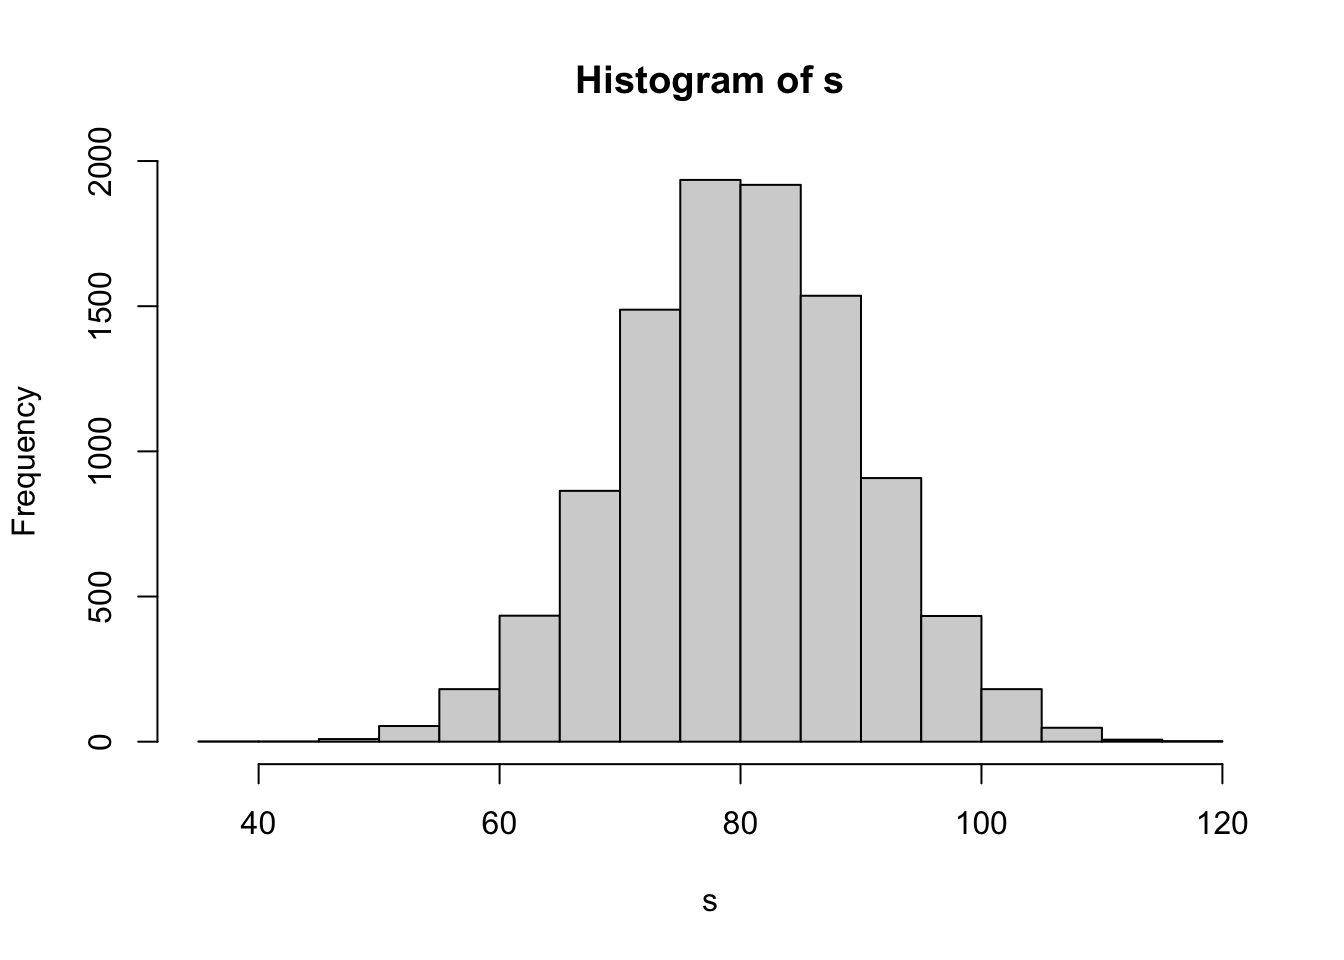
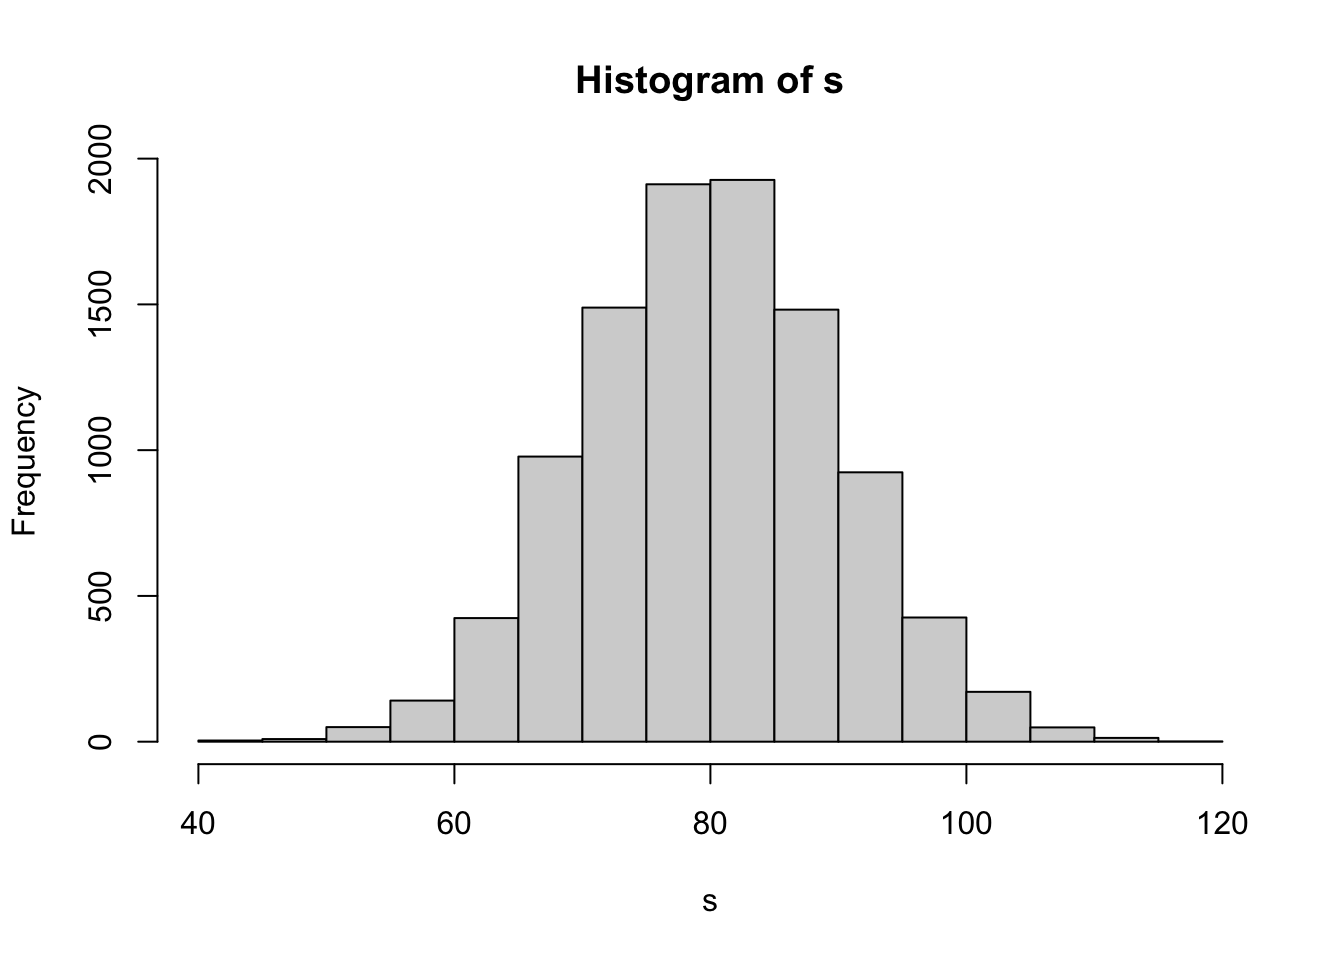
commit

diff --git a/docs/11-module.html b/docs/11-module.html
@@ -435,34 +435,34 @@ pre > code.sourceCode > span > a:first-child::before { text-decoration: underlin
 <span id="cb2-13"><a href="#cb2-13" aria-hidden="true" tabindex="-1"></a><span class="fu">head</span>(df)</span></code><button title="Copy to Clipboard" class="code-copy-button"><i class="bi"></i></button></pre></div>
 <div class="cell-output cell-output-stdout">
 <pre><code>##       name     house   code
-## 1      Ned     Stark 101602
-## 2    Sansa     Stark 168601
-## 3   Cersei Lannister 133778
-## 4   Tyrion Lannister 193890
-## 5      Jon     Stark 576128
-## 6 Daenerys Targaryen 377887</code></pre>
+## 1      Ned     Stark 222333
+## 2    Sansa     Stark 200278
+## 3   Cersei Lannister 528364
+## 4   Tyrion Lannister 727635
+## 5      Jon     Stark 364245
+## 6 Daenerys Targaryen 436165</code></pre>
 </div>
 <div class="sourceCode cell-code" id="cb4"><pre class="sourceCode r code-with-copy"><code class="sourceCode r"><span id="cb4-1"><a href="#cb4-1" aria-hidden="true" tabindex="-1"></a>df <span class="ot">&lt;-</span> <span class="fu">add_prefix</span>(my_data, <span class="at">prefix =</span> <span class="st">"House "</span>, <span class="at">variable =</span> <span class="st">"house"</span>)</span>
 <span id="cb4-2"><a href="#cb4-2" aria-hidden="true" tabindex="-1"></a><span class="fu">head</span>(df)</span></code><button title="Copy to Clipboard" class="code-copy-button"><i class="bi"></i></button></pre></div>
 <div class="cell-output cell-output-stdout">
 <pre><code>##       name           house   code
-## 1      Ned     House Stark 101602
-## 2    Sansa     House Stark 168601
-## 3   Cersei House Lannister 133778
-## 4   Tyrion House Lannister 193890
-## 5      Jon     House Stark 576128
-## 6 Daenerys House Targaryen 377887</code></pre>
+## 1      Ned     House Stark 222333
+## 2    Sansa     House Stark 200278
+## 3   Cersei House Lannister 528364
+## 4   Tyrion House Lannister 727635
+## 5      Jon     House Stark 364245
+## 6 Daenerys House Targaryen 436165</code></pre>
 </div>
 <div class="sourceCode cell-code" id="cb6"><pre class="sourceCode r code-with-copy"><code class="sourceCode r"><span id="cb6-1"><a href="#cb6-1" aria-hidden="true" tabindex="-1"></a>df <span class="ot">&lt;-</span> <span class="fu">add_prefix</span>(my_data, <span class="at">prefix =</span> <span class="st">"00001-"</span>, <span class="at">variable =</span> <span class="st">"code"</span>)</span>
 <span id="cb6-2"><a href="#cb6-2" aria-hidden="true" tabindex="-1"></a><span class="fu">head</span>(df)</span></code><button title="Copy to Clipboard" class="code-copy-button"><i class="bi"></i></button></pre></div>
 <div class="cell-output cell-output-stdout">
 <pre><code>##       name     house         code
-## 1      Ned     Stark 00001-101602
-## 2    Sansa     Stark 00001-168601
-## 3   Cersei Lannister 00001-133778
-## 4   Tyrion Lannister 00001-193890
-## 5      Jon     Stark 00001-576128
-## 6 Daenerys Targaryen 00001-377887</code></pre>
+## 1      Ned     Stark 00001-222333
+## 2    Sansa     Stark 00001-200278
+## 3   Cersei Lannister 00001-528364
+## 4   Tyrion Lannister 00001-727635
+## 5      Jon     Stark 00001-364245
+## 6 Daenerys Targaryen 00001-436165</code></pre>
 </div>
 </div>
 <blockquote class="blockquote">
@@ -472,23 +472,23 @@ pre > code.sourceCode > span > a:first-child::before { text-decoration: underlin
 <div class="sourceCode cell-code" id="cb8"><pre class="sourceCode r code-with-copy"><code class="sourceCode r"><span id="cb8-1"><a href="#cb8-1" aria-hidden="true" tabindex="-1"></a><span class="fu">head</span>(<span class="fu">add_prefix</span>(<span class="at">df =</span> my_data, <span class="at">variable =</span> <span class="st">"house"</span>))</span></code><button title="Copy to Clipboard" class="code-copy-button"><i class="bi"></i></button></pre></div>
 <div class="cell-output cell-output-stdout">
 <pre><code>##       name     house   code
-## 1      Ned     Stark 101602
-## 2    Sansa     Stark 168601
-## 3   Cersei Lannister 133778
-## 4   Tyrion Lannister 193890
-## 5      Jon     Stark 576128
-## 6 Daenerys Targaryen 377887</code></pre>
+## 1      Ned     Stark 222333
+## 2    Sansa     Stark 200278
+## 3   Cersei Lannister 528364
+## 4   Tyrion Lannister 727635
+## 5      Jon     Stark 364245
+## 6 Daenerys Targaryen 436165</code></pre>
 </div>
 <div class="sourceCode cell-code" id="cb10"><pre class="sourceCode r code-with-copy"><code class="sourceCode r"><span id="cb10-1"><a href="#cb10-1" aria-hidden="true" tabindex="-1"></a><span class="co"># versus...</span></span>
 <span id="cb10-2"><a href="#cb10-2" aria-hidden="true" tabindex="-1"></a><span class="fu">head</span>(<span class="fu">add_prefix</span>(<span class="at">variable =</span> <span class="st">"house"</span>, <span class="at">df =</span> my_data))</span></code><button title="Copy to Clipboard" class="code-copy-button"><i class="bi"></i></button></pre></div>
 <div class="cell-output cell-output-stdout">
 <pre><code>##       name     house   code
-## 1      Ned     Stark 101602
-## 2    Sansa     Stark 168601
-## 3   Cersei Lannister 133778
-## 4   Tyrion Lannister 193890
-## 5      Jon     Stark 576128
-## 6 Daenerys Targaryen 377887</code></pre>
+## 1      Ned     Stark 222333
+## 2    Sansa     Stark 200278
+## 3   Cersei Lannister 528364
+## 4   Tyrion Lannister 727635
+## 5      Jon     Stark 364245
+## 6 Daenerys Targaryen 436165</code></pre>
 </div>
 </div>
 <p>Note that in the example above, because the argument name <code>prefix</code> was excluded, the default value was used.</p>
@@ -497,34 +497,34 @@ pre > code.sourceCode > span > a:first-child::before { text-decoration: underlin
 <div class="sourceCode cell-code" id="cb12"><pre class="sourceCode r code-with-copy"><code class="sourceCode r"><span id="cb12-1"><a href="#cb12-1" aria-hidden="true" tabindex="-1"></a><span class="fu">head</span>(<span class="fu">add_prefix</span>(my_data, <span class="st">"00001-"</span>, <span class="st">"code"</span>))</span></code><button title="Copy to Clipboard" class="code-copy-button"><i class="bi"></i></button></pre></div>
 <div class="cell-output cell-output-stdout">
 <pre><code>##       name     house         code
-## 1      Ned     Stark 00001-101602
-## 2    Sansa     Stark 00001-168601
-## 3   Cersei Lannister 00001-133778
-## 4   Tyrion Lannister 00001-193890
-## 5      Jon     Stark 00001-576128
-## 6 Daenerys Targaryen 00001-377887</code></pre>
+## 1      Ned     Stark 00001-222333
+## 2    Sansa     Stark 00001-200278
+## 3   Cersei Lannister 00001-528364
+## 4   Tyrion Lannister 00001-727635
+## 5      Jon     Stark 00001-364245
+## 6 Daenerys Targaryen 00001-436165</code></pre>
 </div>
 <div class="sourceCode cell-code" id="cb14"><pre class="sourceCode r code-with-copy"><code class="sourceCode r"><span id="cb14-1"><a href="#cb14-1" aria-hidden="true" tabindex="-1"></a><span class="co"># versus...</span></span>
 <span id="cb14-2"><a href="#cb14-2" aria-hidden="true" tabindex="-1"></a><span class="fu">head</span>(<span class="fu">add_prefix</span>(my_data, <span class="st">"House "</span>, <span class="st">"house"</span>))</span></code><button title="Copy to Clipboard" class="code-copy-button"><i class="bi"></i></button></pre></div>
 <div class="cell-output cell-output-stdout">
 <pre><code>##       name           house   code
-## 1      Ned     House Stark 101602
-## 2    Sansa     House Stark 168601
-## 3   Cersei House Lannister 133778
-## 4   Tyrion House Lannister 193890
-## 5      Jon     House Stark 576128
-## 6 Daenerys House Targaryen 377887</code></pre>
+## 1      Ned     House Stark 222333
+## 2    Sansa     House Stark 200278
+## 3   Cersei House Lannister 528364
+## 4   Tyrion House Lannister 727635
+## 5      Jon     House Stark 364245
+## 6 Daenerys House Targaryen 436165</code></pre>
 </div>
 <div class="sourceCode cell-code" id="cb16"><pre class="sourceCode r code-with-copy"><code class="sourceCode r"><span id="cb16-1"><a href="#cb16-1" aria-hidden="true" tabindex="-1"></a><span class="co"># versus...</span></span>
 <span id="cb16-2"><a href="#cb16-2" aria-hidden="true" tabindex="-1"></a><span class="fu">head</span>(<span class="fu">add_prefix</span>(my_data, <span class="st">""</span>, <span class="st">"house"</span>))</span></code><button title="Copy to Clipboard" class="code-copy-button"><i class="bi"></i></button></pre></div>
 <div class="cell-output cell-output-stdout">
 <pre><code>##       name     house   code
-## 1      Ned     Stark 101602
-## 2    Sansa     Stark 168601
-## 3   Cersei Lannister 133778
-## 4   Tyrion Lannister 193890
-## 5      Jon     Stark 576128
-## 6 Daenerys Targaryen 377887</code></pre>
+## 1      Ned     Stark 222333
+## 2    Sansa     Stark 200278
+## 3   Cersei Lannister 528364
+## 4   Tyrion Lannister 727635
+## 5      Jon     Stark 364245
+## 6 Daenerys Targaryen 436165</code></pre>
 </div>
 </div>
 <p>If we try to run the line below, however, it throws an error because too few (unnamed) arguments are passed to the function for it to be able to disambiguate them:</p>
@@ -796,35 +796,35 @@ pre > code.sourceCode > span > a:first-child::before { text-decoration: underlin
 <div class="cell-output cell-output-stdout">
 <details><summary>Show Output</summary>
 <pre class="details" data-summary="Show Output"><code>##   name house   code
-## 1  Ned Stark 101602
+## 1  Ned Stark 222333
 ##    name house   code
-## 2 Sansa Stark 168601
+## 2 Sansa Stark 200278
 ##     name     house   code
-## 3 Cersei Lannister 133778
+## 3 Cersei Lannister 528364
 ##     name     house   code
-## 4 Tyrion Lannister 193890
+## 4 Tyrion Lannister 727635
 ##   name house   code
-## 5  Jon Stark 576128
+## 5  Jon Stark 364245
 ##       name     house   code
-## 6 Daenerys Targaryen 377887
+## 6 Daenerys Targaryen 436165
 ##   name house   code
-## 7 Aria Stark 938083
+## 7 Aria Stark 395188
 ##      name house   code
-## 8 Brienne Tarth 276182
+## 8 Brienne Tarth 357394
 ##     name house   code
-## 9 Rickon Stark 886396
+## 9 Rickon Stark 372863
 ##      name house   code
-## 10 Edmure Tully 389982
+## 10 Edmure Tully 757589
 ##     name   house   code
-## 11 Petyr Baelish 485158
+## 11 Petyr Baelish 828804
 ##     name     house   code
-## 12 Jamie Lannister 385575
+## 12 Jamie Lannister 271837
 ##      name     house   code
-## 13 Robert Baratheon 431240
+## 13 Robert Baratheon 660168
 ##       name     house   code
-## 14 Stannis Baratheon 975198
+## 14 Stannis Baratheon 640020
 ##     name   house   code
-## 15 Theon Greyjoy 854314</code></pre>
+## 15 Theon Greyjoy 607345</code></pre>
 </details>
 </div>
 </div>
@@ -841,21 +841,21 @@ pre > code.sourceCode > span > a:first-child::before { text-decoration: underlin
 </details>
 <div class="cell-output cell-output-stdout">
 <details><summary>Show Output</summary>
-<pre class="details" data-summary="Show Output"><code>## [1] "206101"
-## [1] "106861"
-## [1] "877331"
-## [1] "098391"
-## [1] "821675"
-## [1] "788773"
-## [1] "380839"
-## [1] "281672"
-## [1] "693688"
-## [1] "289983"
-## [1] "851584"
-## [1] "575583"
-## [1] "042134"
-## [1] "891579"
-## [1] "413458"</code></pre>
+<pre class="details" data-summary="Show Output"><code>## [1] "333222"
+## [1] "872002"
+## [1] "463825"
+## [1] "536727"
+## [1] "542463"
+## [1] "561634"
+## [1] "881593"
+## [1] "493753"
+## [1] "368273"
+## [1] "985757"
+## [1] "408828"
+## [1] "738172"
+## [1] "861066"
+## [1] "020046"
+## [1] "543706"</code></pre>
 </details>
 </div>
 </div>

diff --git a/docs/12-module.html b/docs/12-module.html
@@ -712,14 +712,14 @@ window.Quarto = {
 <span id="cb21-4"><a href="#cb21-4" aria-hidden="true" tabindex="-1"></a>}</span>
 <span id="cb21-5"><a href="#cb21-5" aria-hidden="true" tabindex="-1"></a><span class="fu">pop_sd</span>(x)</span></code><button title="Copy to Clipboard" class="code-copy-button"><i class="bi"></i></button></pre></div>
 <div class="cell-output cell-output-stdout">
-<pre><code>## [1] 2.013659</code></pre>
+<pre><code>## [1] 2.004747</code></pre>
 </div>
 <div class="sourceCode cell-code" id="cb23"><pre class="sourceCode r code-with-copy"><code class="sourceCode r"><span id="cb23-1"><a href="#cb23-1" aria-hidden="true" tabindex="-1"></a>sample_sd <span class="ot">&lt;-</span> <span class="cf">function</span>(x) {</span>
 <span id="cb23-2"><a href="#cb23-2" aria-hidden="true" tabindex="-1"></a>    <span class="fu">sqrt</span>(<span class="fu">sample_var</span>(x))</span>
 <span id="cb23-3"><a href="#cb23-3" aria-hidden="true" tabindex="-1"></a>}</span>
 <span id="cb23-4"><a href="#cb23-4" aria-hidden="true" tabindex="-1"></a><span class="fu">sample_sd</span>(x)</span></code><button title="Copy to Clipboard" class="code-copy-button"><i class="bi"></i></button></pre></div>
 <div class="cell-output cell-output-stdout">
-<pre><code>## [1] 2.014666</code></pre>
+<pre><code>## [1] 2.005751</code></pre>
 </div>
 </div>
 <p>The <code>sdpop()</code> function from the {radiant} package can be used to calculate the standard deviation for a completely sampled population.</p>
@@ -727,7 +727,7 @@ window.Quarto = {
 <div class="sourceCode cell-code" id="cb25"><pre class="sourceCode r code-with-copy"><code class="sourceCode r"><span id="cb25-1"><a href="#cb25-1" aria-hidden="true" tabindex="-1"></a><span class="fu">library</span>(radiant)</span>
 <span id="cb25-2"><a href="#cb25-2" aria-hidden="true" tabindex="-1"></a><span class="fu">sdpop</span>(x)</span></code><button title="Copy to Clipboard" class="code-copy-button"><i class="bi"></i></button></pre></div>
 <div class="cell-output cell-output-stdout">
-<pre><code>## [1] 2.013659</code></pre>
+<pre><code>## [1] 2.004747</code></pre>
 </div>
 <div class="sourceCode cell-code" id="cb27"><pre class="sourceCode r code-with-copy"><code class="sourceCode r"><span id="cb27-1"><a href="#cb27-1" aria-hidden="true" tabindex="-1"></a><span class="fu">detach</span>(package<span class="sc">:</span>radiant)</span></code><button title="Copy to Clipboard" class="code-copy-button"><i class="bi"></i></button></pre></div>
 </div>
@@ -735,7 +735,7 @@ window.Quarto = {
 <div class="cell" data-layout-align="center">
 <div class="sourceCode cell-code" id="cb28"><pre class="sourceCode r code-with-copy"><code class="sourceCode r"><span id="cb28-1"><a href="#cb28-1" aria-hidden="true" tabindex="-1"></a><span class="fu">sd</span>(x)</span></code><button title="Copy to Clipboard" class="code-copy-button"><i class="bi"></i></button></pre></div>
 <div class="cell-output cell-output-stdout">
-<pre><code>## [1] 2.014666</code></pre>
+<pre><code>## [1] 2.005751</code></pre>
 </div>
 </div>
 </section>

diff --git a/docs/exercise-04.html b/docs/exercise-04.html
@@ -423,7 +423,7 @@ pre > code.sourceCode > span > a:first-child::before { text-decoration: underlin
 <p>The first of these files (279,497 lines long) contains a list of “Official Scrabble Words” in the English language based on the <strong><em>Collins English Dictionary</em></strong> published by HarperCollins. The first line in the file is the word “words” and is used as a header.</p>
 <p>The second of these files (9885 lines long) contains a list of ~10,000 of the most common words in the English language, based on data compiled by Google, and omitting common swear words. Again, the first line is the word “words” and is used as a header.</p>
 <ul>
-<li>Create a new <strong>RMarkdown</strong> document, called “wordle.Rmd”. In this, you do your best to recreate all of the wordplay used in Wordle.</li>
+<li>Create a new <strong>RMarkdown</strong> or <strong>Quarto</strong> document, called “wordle.Rmd” or “wordle.qmd”. In this, you do your best to recreate all of the wordplay used in Wordle.</li>
 </ul>
 </section>
 <section id="introduction" class="level4 unnumbered">
@@ -1023,7 +1023,7 @@ window.document.addEventListener("DOMContentLoaded", function (event) {
 <span id="cb11-37"><a href="#cb11-37" aria-hidden="true" tabindex="-1"></a></span>
 <span id="cb11-38"><a href="#cb11-38" aria-hidden="true" tabindex="-1"></a>The second of these files (9885 lines long) contains a list of ~10,000 of the most common words in the English language, based on data compiled by Google, and omitting common swear words. Again, the first line is the word "words" and is used as a header.</span>
 <span id="cb11-39"><a href="#cb11-39" aria-hidden="true" tabindex="-1"></a></span>
-<span id="cb11-40"><a href="#cb11-40" aria-hidden="true" tabindex="-1"></a><span class="ss">- </span>Create a new **RMarkdown** document, called "wordle.Rmd". In this, you do your best to recreate all of the wordplay used in Wordle.</span>
+<span id="cb11-40"><a href="#cb11-40" aria-hidden="true" tabindex="-1"></a><span class="ss">- </span>Create a new **RMarkdown** or **Quarto** document, called "wordle.Rmd" or "wordle.qmd". In this, you do your best to recreate all of the wordplay used in Wordle.</span>
 <span id="cb11-41"><a href="#cb11-41" aria-hidden="true" tabindex="-1"></a></span>
 <span id="cb11-42"><a href="#cb11-42" aria-hidden="true" tabindex="-1"></a><span class="fu">#### Introduction {.unnumbered}</span></span>
 <span id="cb11-43"><a href="#cb11-43" aria-hidden="true" tabindex="-1"></a></span>

diff --git a/docs/04-module.html b/docs/04-module.html
@@ -792,7 +792,7 @@ pre > code.sourceCode > span > a:first-child::before { text-decoration: underlin
 </details>
 <div class="cell-output cell-output-stdout">
 <details><summary>Show Output</summary>
-<pre class="details" data-summary="Show Output"><code>## [1] 80.06936</code></pre>
+<pre class="details" data-summary="Show Output"><code>## [1] 79.97619</code></pre>
 </details>
 </div>
 <details class="code-fold">
@@ -801,7 +801,7 @@ pre > code.sourceCode > span > a:first-child::before { text-decoration: underlin
 </details>
 <div class="cell-output cell-output-stdout">
 <details><summary>Show Output</summary>
-<pre class="details" data-summary="Show Output"><code>## [1] 9.982897</code></pre>
+<pre class="details" data-summary="Show Output"><code>## [1] 9.944259</code></pre>
 </details>
 </div>
 </div>
